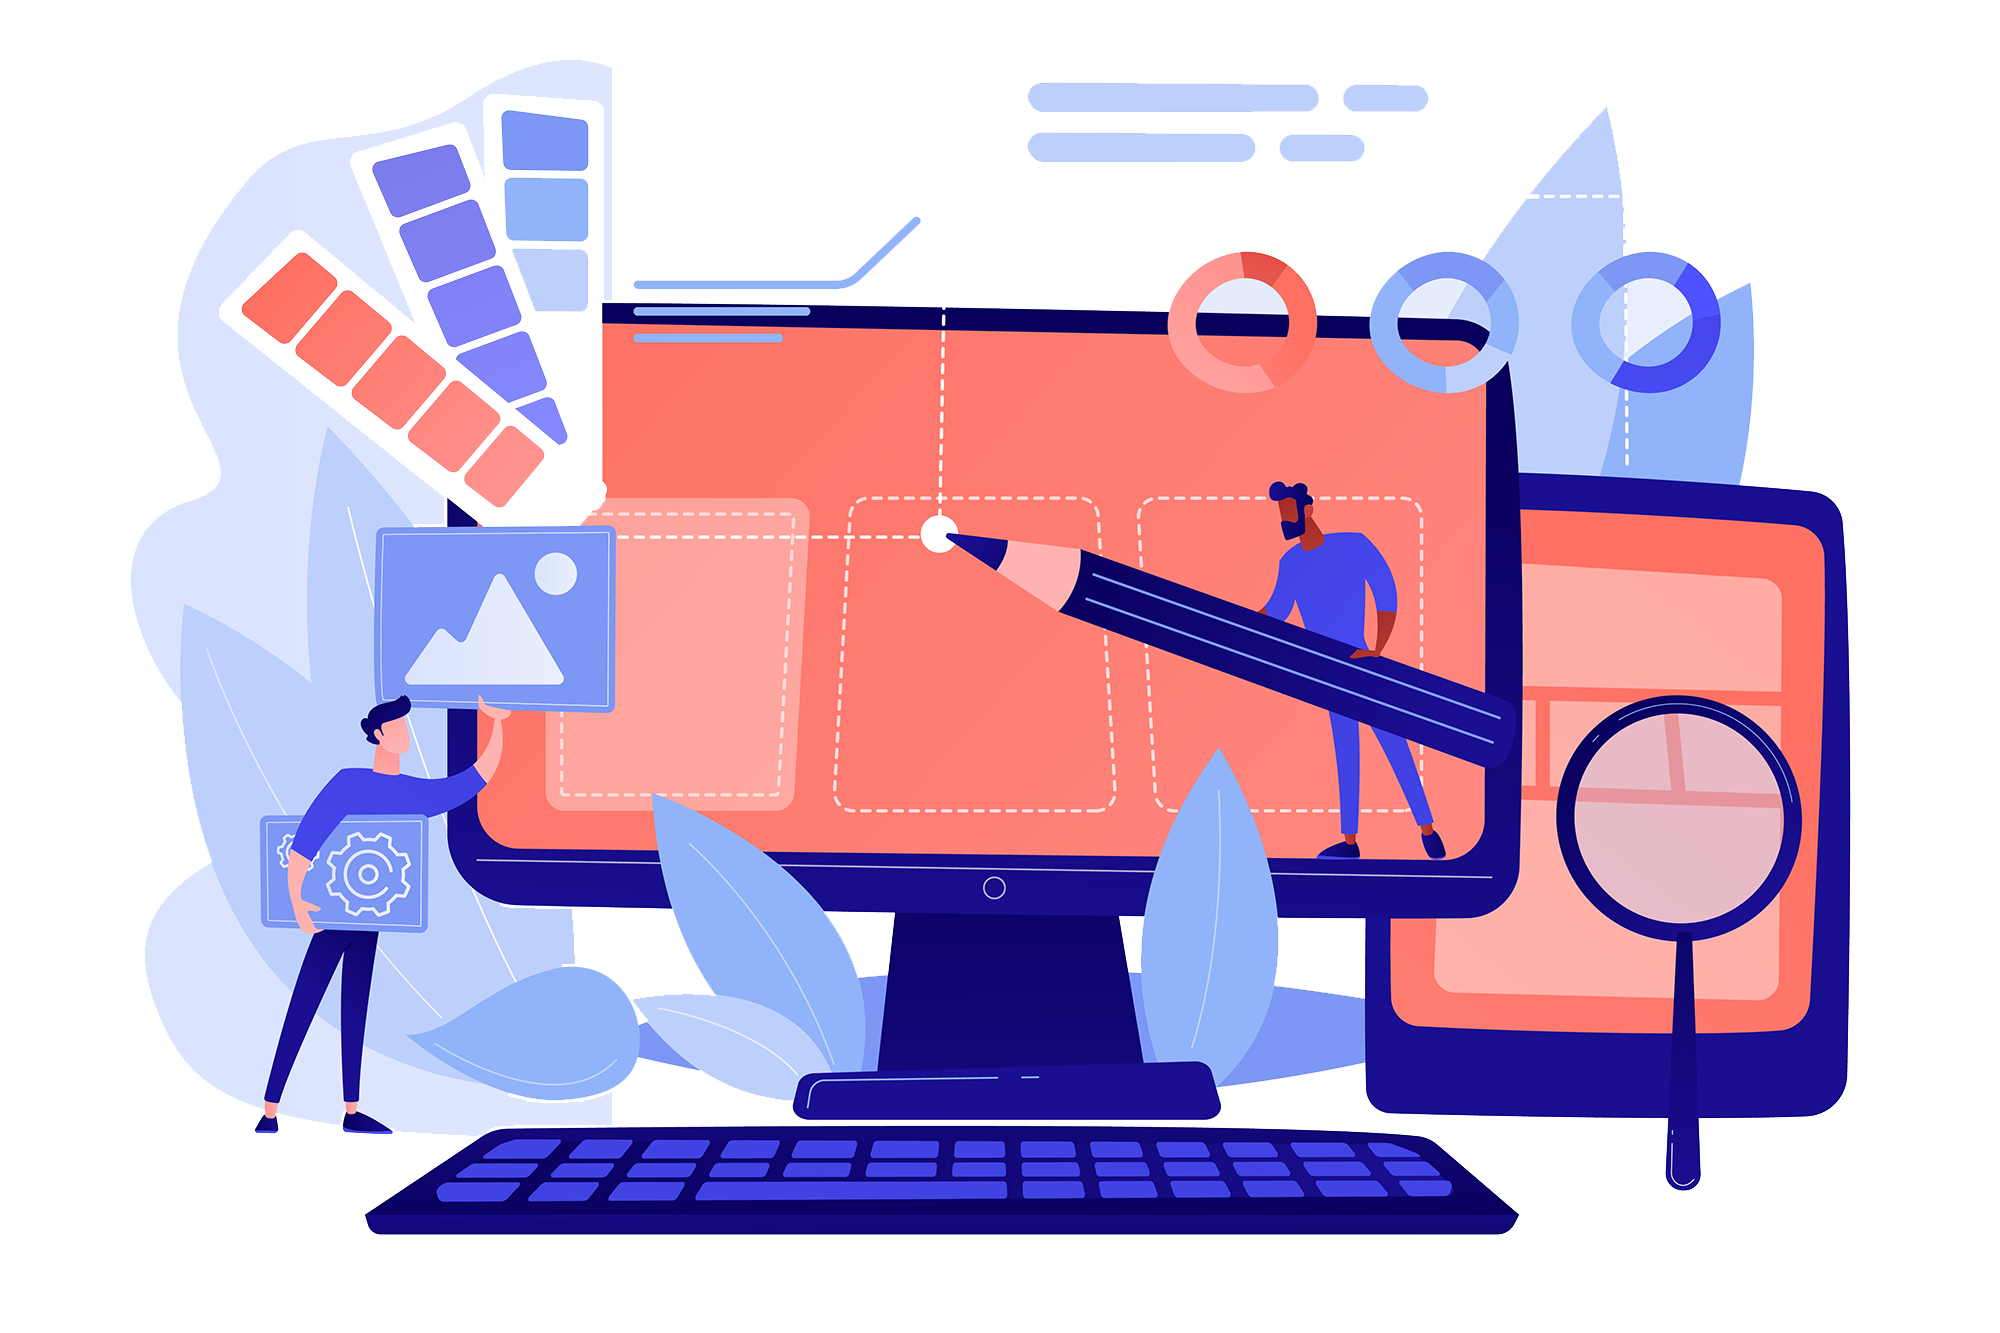
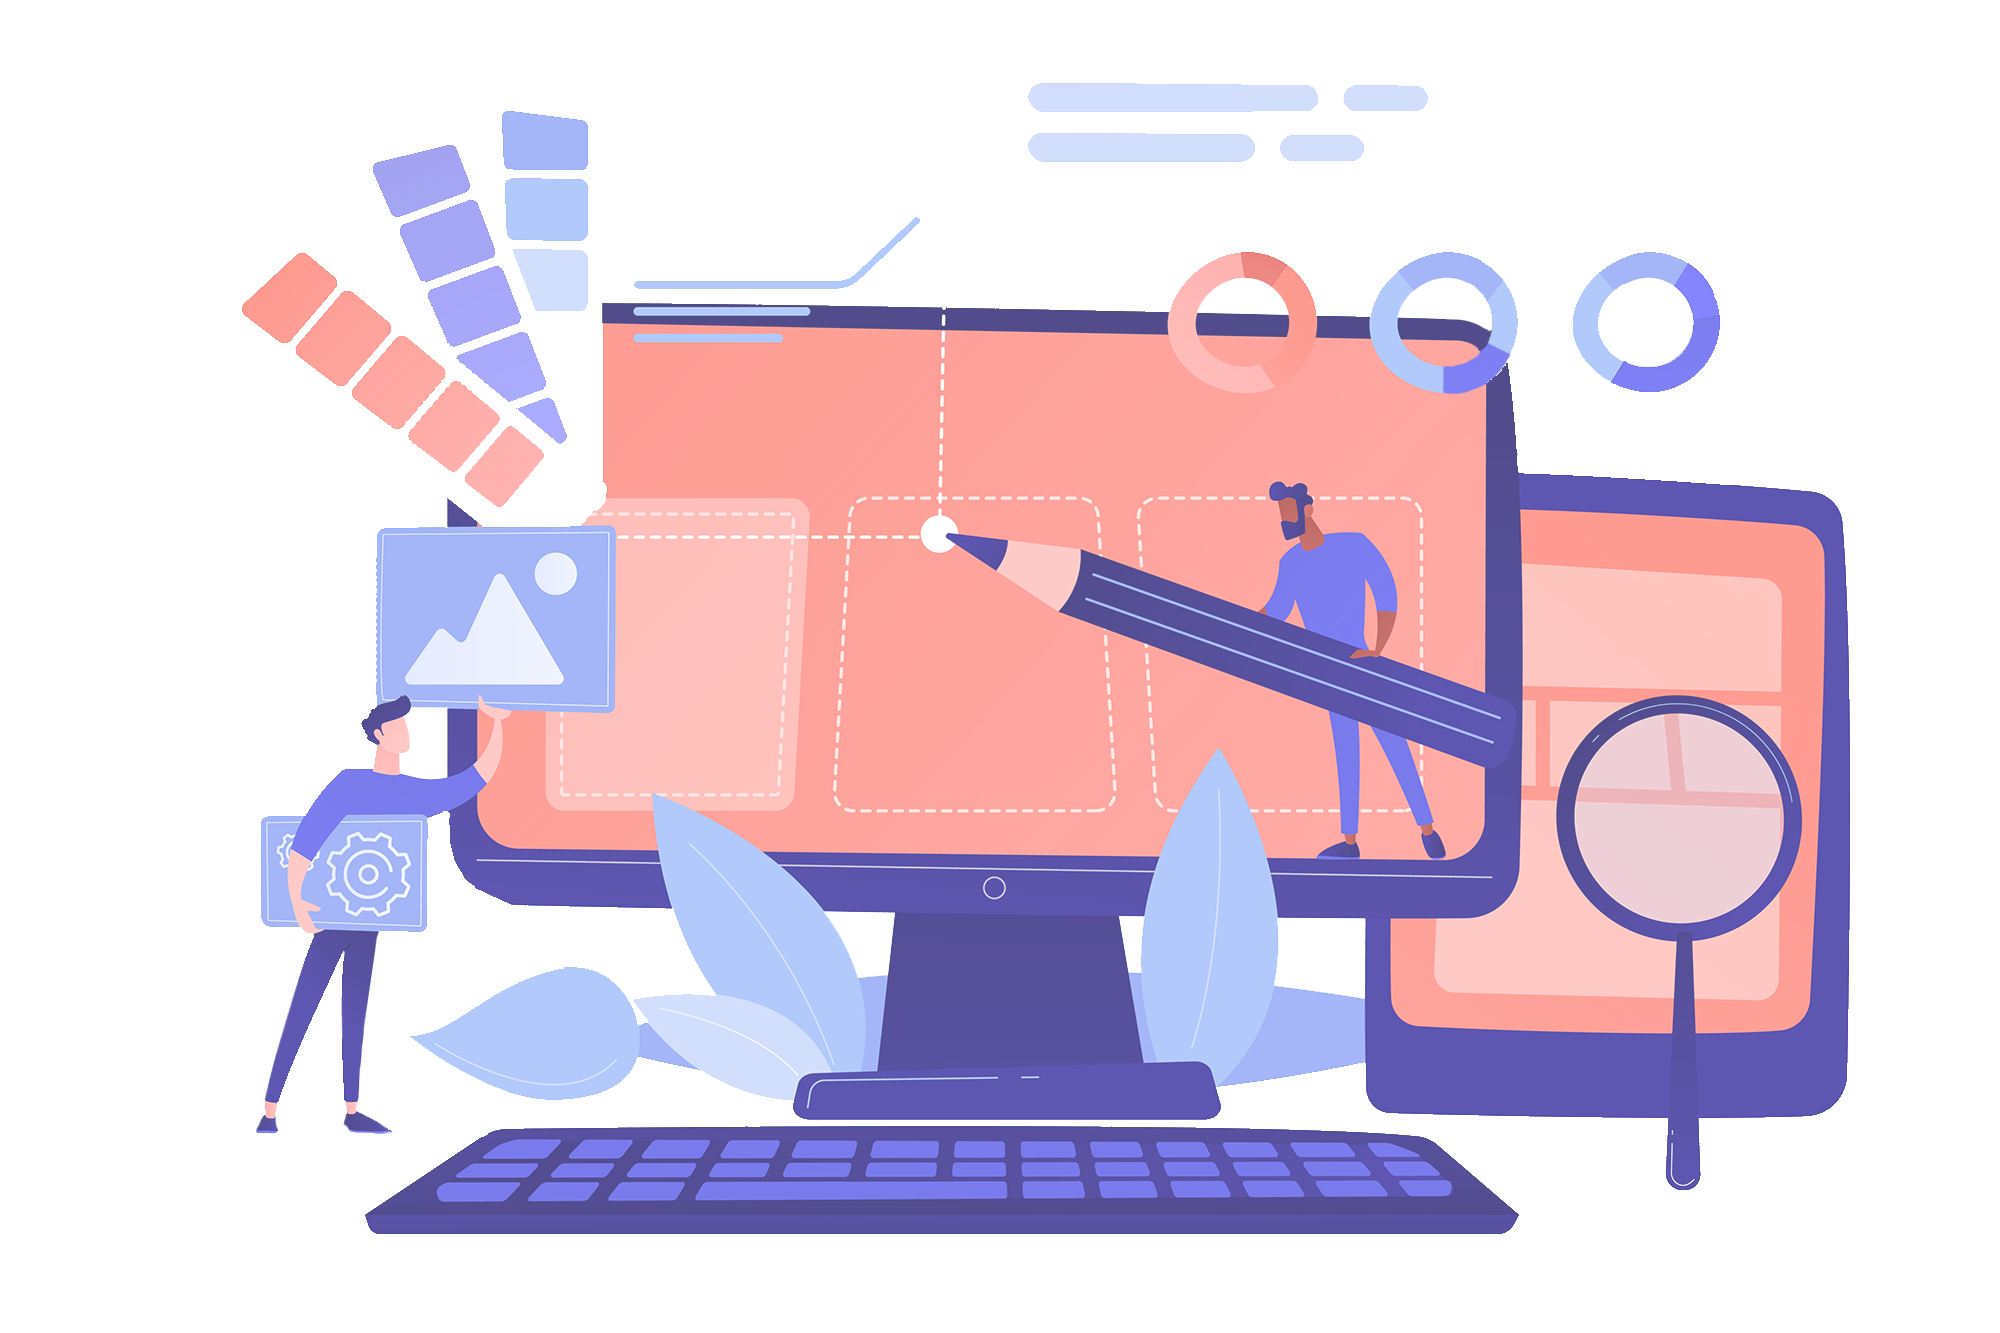
Modificación estilos generales

diff --git a/src/components/projects.js b/src/components/projects.js
@@ -31,31 +31,36 @@ export const Projects = () => {
         <h2>
           Proyectos
         </h2>
+        <div className="button-welcome">
+          <a href="#navbar">▲</a>
+        </div>
       </div>
-      {dbProjects.map((proj) => (
-        <div key={proj.id} className="card">
-          <img src={proj.image} className="card-img-top" alt={proj.name} />
-          <div className="card-body">
-            <h5 className="card-title">{proj.name}</h5>
-            <p className="card-text sub-text-card">{proj.development}</p>
-            <p className="card-text">{proj.details}</p>
-            <div className="btn-project">
-              {proj.url !== "" ?
-                <a href={proj.url} target="_blank" rel="noreferrer" className="btn btn-primary">Ir a la página</a>
-                : <></>
-              }
-              {proj.codeFront !== "" ?
-                <a href={proj.codeFront} target="_blank"  rel="noreferrer" className="btn btn-primary">Código Fuente Frontend</a>
-                : <></>
-              }
-              {proj.codeBack !== "" ?
-                <a href={proj.codeBack} target="_blank" rel="noreferrer" className="btn btn-secondary">Código Fuente Backend</a>
-                : <></>
-              }
+      <div className="div-projects">
+        {dbProjects.map((proj) => (
+          <div key={proj.id} className="card">
+            <img src={proj.image} className="card-img-top" alt={proj.name} />
+            <div className="card-body">
+              <h5 className="card-title">{proj.name}</h5>
+              <p className="card-text sub-text-card">{proj.development}</p>
+              <p className="card-text">{proj.details}</p>
+              <div className="btn-project">
+                {proj.url !== "" ?
+                  <a href={proj.url} target="_blank" rel="noreferrer" className="btn btn-primary">Ir a la página</a>
+                  : <></>
+                }
+                {proj.codeFront !== "" ?
+                  <a href={proj.codeFront} target="_blank" rel="noreferrer" className="btn btn-primary">Código Fuente Frontend</a>
+                  : <></>
+                }
+                {proj.codeBack !== "" ?
+                  <a href={proj.codeBack} target="_blank" rel="noreferrer" className="btn btn-secondary">Código Fuente Backend</a>
+                  : <></>
+                }
+              </div>
             </div>
           </div>
-        </div>
-      ))}
+        ))}
+      </div>
     </section>
   );
 }

diff --git a/src/index.css b/src/index.css
@@ -3,22 +3,24 @@ html{
 }
 
 body {
-  margin: 60px 0 60px 0;
+  margin: 0 0 60px 0;
   font-family: 'Ubuntu', sans-serif;
-  background-color: #fafbfd;
+  background-color: rgb(31, 32, 32);
   position: relative;
 }
 
 .navbar {
-  background-color: #fafbfd;
+  background-color: rgb(36, 37, 37);
   font-weight: 500;
-  position: fixed;
   width: 100%;
   top: 0;
 }
 
 .img-logo-navbar {
   width: 80px;
+  background-color: rgb(253, 253, 253);
+  padding: 2px;
+  border-radius: 10px 10px 0 0;
 }
 
 .section {
@@ -35,5 +37,26 @@ body {
   text-align: center;
   font-family: 'Comfortaa', cursive;
   font-weight: 700;
-  font-size: 80px;
+  font-size: 50px;
+  color: rgb(253, 253, 253);
+  text-shadow: 0 0 10px black;
+}
+
+.button-welcome {
+  background-color: rgb(51, 50, 50);
+  border-radius: 50%;
+  width: 20px;
+  height: 20px;
+  display: flex;
+  flex-direction: column;
+  align-items: center;
+  justify-content: center;
+  position: absolute;
+  right:3%;
+}
+
+.button-welcome a {
+  padding: 1px 1px 2px 1px;
+  font-size: 10px;
+  color: rgb(190, 187, 187);
 }

diff --git a/src/styles/about.css b/src/styles/about.css
@@ -1,25 +1,25 @@
 .section-about {
     background-image: url("../resources/images/bg_about_me.png");
-    background-size: 600px;
+    background-size: contain;
     background-repeat: no-repeat;
-    background-position: left;
+    background-position: center;
     padding: 60px 0;
+    display: flex;
+    flex-direction: column;
+    align-items: center;
+}
+
+.div-about {
+    opacity: .8;
+    margin: 0 10%;
+    max-width: 500px;
 }
 
 .text-about {
     text-align: justify;
-    margin: 0 10%;
-    padding-left: 30%;
-    text-shadow: 0 0 8px #fafbfd;
+    background-color: rgb(253, 253, 253);
+    max-width: 500px;
+    border-radius: 10px;
+    padding: 20px;
 }
 
-@media screen and (max-width: 837px) {
-    .section-about {
-        background-position: bottom;
-        background-image: url("../resources/images/bg_about_me_opacity.png");
-    }
-
-    .text-about {
-        padding-left: 0;
-    }
-}

diff --git a/src/components/skills.js b/src/components/skills.js
@@ -106,14 +106,19 @@ export const Skills = () => {
         <h2>
           Habilidades
         </h2>
+        <div className="button-welcome">
+          <a href="#navbar">▲</a>
+        </div>
       </div>
-      <div className="container">
-        <div className="row">
-          {dbSkills.map((item) => (
-            <div key={item.id} className="col">
-              <img className="icon-skills" src={item.imagen} title={item.nombre} alt={item.nombre}/>
-            </div>
-          ))}
+      <div className="div-skills">
+        <div className="container">
+          <div className="row">
+            {dbSkills.map((item) => (
+              <div key={item.id} className="col">
+                <img className="icon-skills" src={item.imagen} title={item.nombre} alt={item.nombre} />
+              </div>
+            ))}
+          </div>
         </div>
       </div>
     </section>

diff --git a/src/components/about.js b/src/components/about.js
@@ -7,9 +7,12 @@ export const About = () => {
         <h2>
           Acerca de
         </h2>
+        <div className="button-welcome">
+          <a href="#navbar">▲</a>
+        </div>
       </div>
-      <div className="text-about">
-        <p>
+      <div className="div-about">
+        <p className="text-about">
           Técnico en sistemas con conocimiento en el desarrollo de software, implementación de estrategias de trabajo en equipo con buen desempeño en el aprendizaje autónomo y colaborativo. Inspirado en obtener los mejores resultados, combino experiencia y disposición al nuevo aprendizaje para sacar adelante cada proyecto asignado.
           <br />
           <br />

diff --git a/src/styles/experience.css b/src/styles/experience.css
@@ -1,11 +1,28 @@
 .section-experience {
+    background-image: url("../resources/images/bg_projects.png");
+    background-size: contain;
+    background-repeat: no-repeat;
+    background-position: center;
     padding: 60px 0;
+    display: flex;
+    flex-direction: column;
+    align-items: center;
 }
 
 .text-section {
+    opacity: .8;
     text-align: justify;
     margin: 0 10%;
-    text-shadow: 0 0 8px #fafbfd;
+    /* text-shadow: 0 0 8px #fafbfd; */
+    max-width: 500px;
+}
+
+.accordion-collapse {
+    background-color: rgb(196, 195, 195);
+}
+
+.accordion-body {
+    background-color: rgb(253, 253, 253);
 }
 
 .accordion-button {

diff --git a/src/styles/projects.css b/src/styles/projects.css
@@ -1,16 +1,26 @@
 .section-projects {
+    background-image: url("../resources/images/bg_experience.png");
+    background-size: contain;
+    background-repeat: no-repeat;
+    background-position: center;
     padding: 60px 0;
     display: flex;
     flex-direction: column;
     align-items: center;
-    justify-content: center;
+}
+
+.div-projects {
+    opacity: .9;
+    margin: 0 10%;
+    max-width: 500px;
 }
 
 .card {
     position: static;
-    width: 500px;
+    max-width: 500px;
     text-align: justify;
     margin-bottom: 60px;
+    background-color: rgb(253, 253, 253);
 }
 
 .sub-text-card {

diff --git a/src/styles/skills.css b/src/styles/skills.css
@@ -1,5 +1,18 @@
 .section-skills {
+    background-image: url("../resources/images/bg_skills.png");
+    background-size: contain;
+    background-repeat: no-repeat;
+    background-position: center;
     padding: 60px 0;
+    display: flex;
+    flex-direction: column;
+    align-items: center;
+}
+
+.div-skills {
+    opacity: .9;
+    margin: 0 10%;
+    max-width: 500px;
 }
 
 .col {
@@ -8,6 +21,8 @@
     flex-direction: column;
     align-items: center;
     justify-content: center;
+    background-color: rgb(253, 253, 253);
+    border-radius: 10px;
 }
 
 .icon-skills {

diff --git a/src/components/experience.js b/src/components/experience.js
@@ -19,9 +19,11 @@ export const Experience = () => {
         <h2>
           Experiencia
         </h2>
+        <div className="button-welcome">
+          <a href="#navbar">▲</a>
+        </div>
       </div>
       <div className="text-section">
-
         <div className="accordion" id="accordionExample">
           {dbExperience.map((job) => (
             <div key={job.id} className="accordion-item">
@@ -54,7 +56,6 @@ export const Experience = () => {
             </div>
           ))}
         </div>
-
       </div>
     </section>
   );

diff --git a/src/components/header.js b/src/components/header.js
@@ -3,7 +3,7 @@ import logo from "../resources/icons/logo_name.PNG"
 export const Header = () => {
   return (
     <>
-      <nav className="navbar navbar-expand-lg" >
+      <nav className="navbar navbar-expand-lg navbar-dark" id="navbar">
         <div className="container-fluid">
           <a className="navbar-brand" href="#welcome">
             <img className="img-logo-navbar" src={logo} alt="DR"/>

diff --git a/src/styles/welcome.css b/src/styles/welcome.css
@@ -7,11 +7,12 @@
 
 .text-welcome {
     font-family: 'Comfortaa', cursive;
-    text-shadow: 0 0 8px #fafbfd;
+    text-shadow: 0 0 10px #000000;
     font-weight: 700;
     margin: 80px 0 0 10%;
     padding-top: 70px;
     text-decoration-style: solid;
+    color: rgb(253, 253, 253);
 }
 
 .title-welcome {

diff --git a/src/styles/footer.css b/src/styles/footer.css
@@ -1,5 +1,5 @@
 .div-footer {
-    background-color: #dde8fd;
+    background-color: rgb(36, 37, 37);
     width: 100%;
     height: 120px;
     max-width: 100%;
